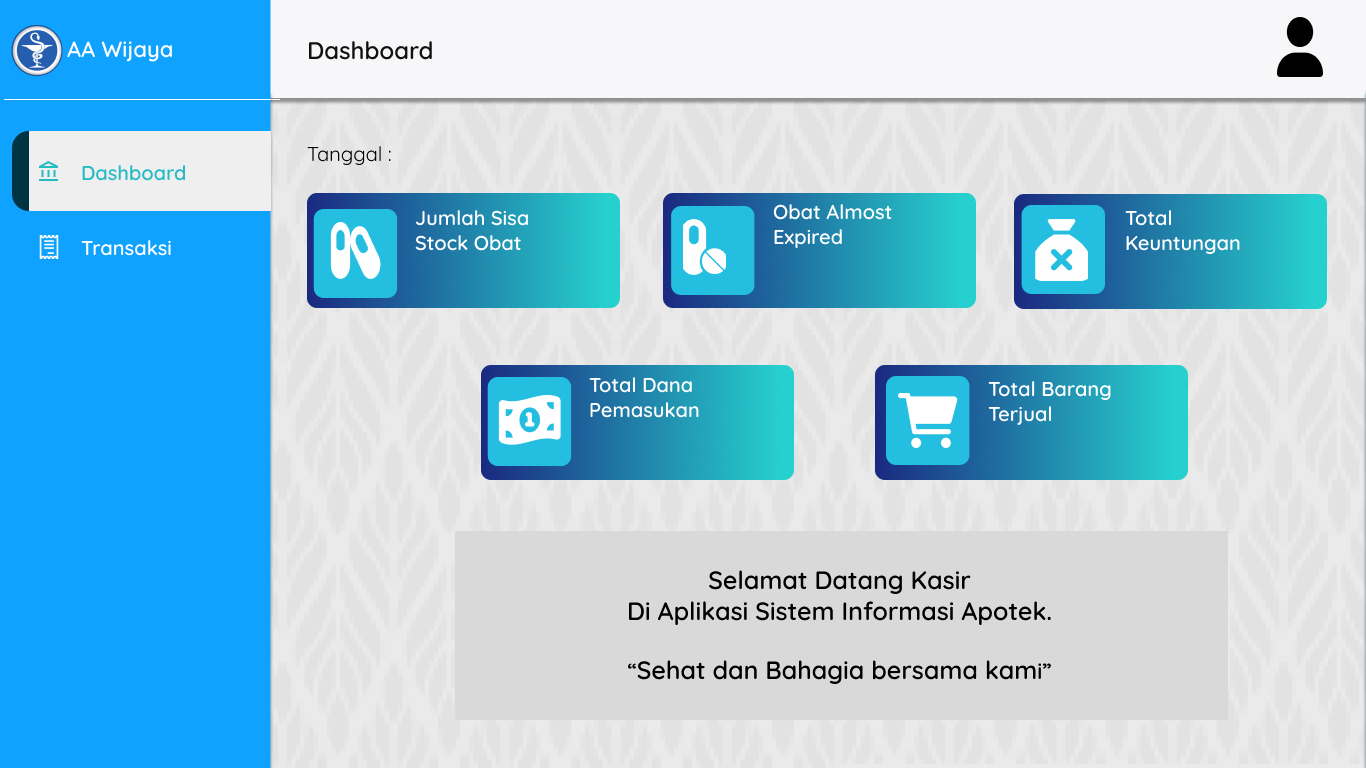
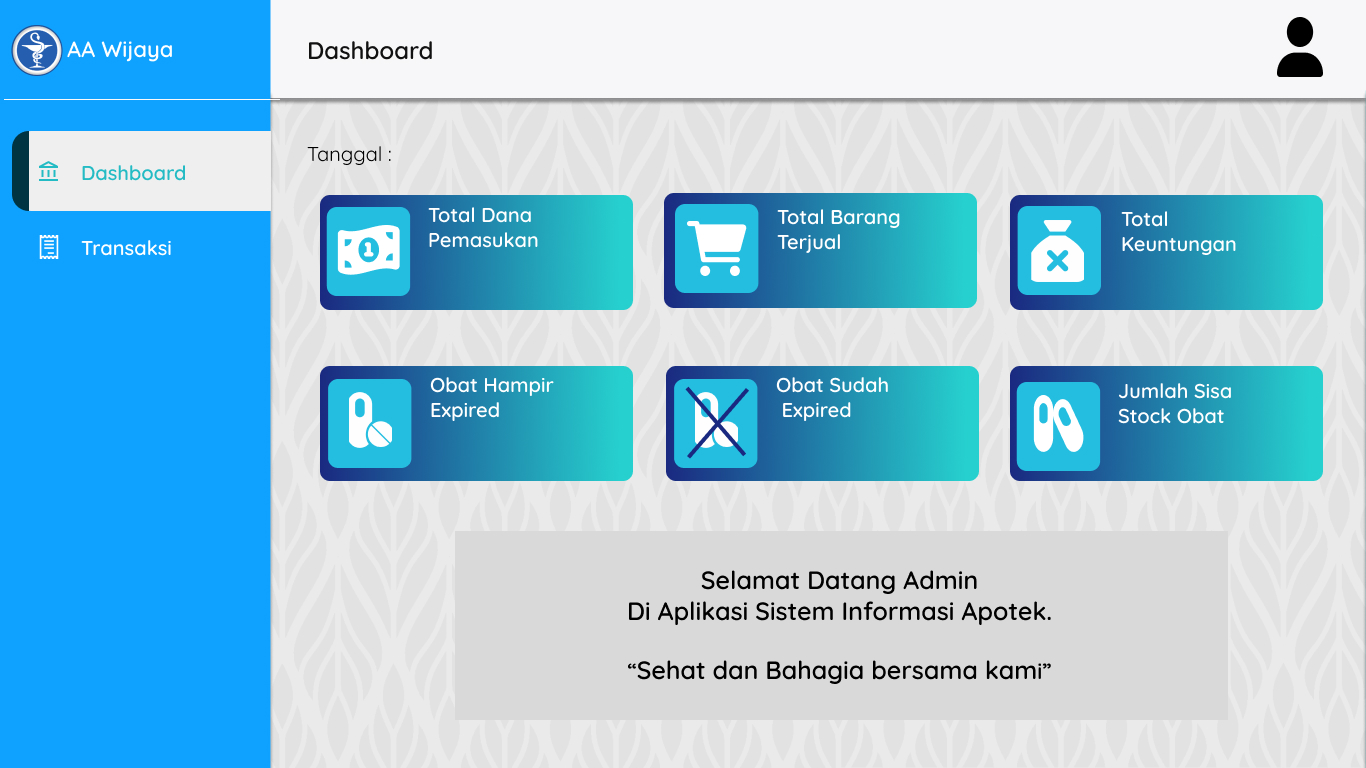
update fitur obat exp

diff --git a/src/View/obatSudahExp.java b/src/View/obatSudahExp.java
@@ -1,0 +1,87 @@
+/*
+ * Click nbfs://nbhost/SystemFileSystem/Templates/Licenses/license-default.txt to change this license
+ * Click nbfs://nbhost/SystemFileSystem/Templates/GUIForms/JFrame.java to edit this template
+ */
+package View;
+
+/**
+ *
+ * @author WINDOWS 10
+ */
+public class obatSudahExp extends javax.swing.JFrame {
+
+    /**
+     * Creates new form obatSudahExp
+     */
+    public obatSudahExp() {
+        initComponents();
+    }
+
+    /**
+     * This method is called from within the constructor to initialize the form.
+     * WARNING: Do NOT modify this code. The content of this method is always
+     * regenerated by the Form Editor.
+     */
+    @SuppressWarnings("unchecked")
+    // <editor-fold defaultstate="collapsed" desc="Generated Code">//GEN-BEGIN:initComponents
+    private void initComponents() {
+
+        jLabel2 = new javax.swing.JLabel();
+        jLabel1 = new javax.swing.JLabel();
+
+        setDefaultCloseOperation(javax.swing.WindowConstants.EXIT_ON_CLOSE);
+        getContentPane().setLayout(null);
+
+        jLabel2.setFont(new java.awt.Font("Segoe UI", 0, 18)); // NOI18N
+        jLabel2.setText("jLabel2");
+        getContentPane().add(jLabel2);
+        jLabel2.setBounds(440, 130, 240, 40);
+
+        jLabel1.setIcon(new javax.swing.ImageIcon(getClass().getResource("/image/laporan obat sudah exp.jpg"))); // NOI18N
+        jLabel1.setText("jLabel1");
+        getContentPane().add(jLabel1);
+        jLabel1.setBounds(0, 0, 1407, 768);
+
+        setBounds(0, 0, 1382, 886);
+    }// </editor-fold>//GEN-END:initComponents
+
+    /**
+     * @param args the command line arguments
+     */
+    public static void main(String args[]) {
+        /* Set the Nimbus look and feel */
+        //<editor-fold defaultstate="collapsed" desc=" Look and feel setting code (optional) ">
+        /* If Nimbus (introduced in Java SE 6) is not available, stay with the default look and feel.
+         * For details see http://download.oracle.com/javase/tutorial/uiswing/lookandfeel/plaf.html 
+         */
+        try {
+            for (javax.swing.UIManager.LookAndFeelInfo info : javax.swing.UIManager.getInstalledLookAndFeels()) {
+                if ("Nimbus".equals(info.getName())) {
+                    javax.swing.UIManager.setLookAndFeel(info.getClassName());
+                    break;
+                }
+            }
+        } catch (ClassNotFoundException ex) {
+            java.util.logging.Logger.getLogger(obatSudahExp.class.getName()).log(java.util.logging.Level.SEVERE, null, ex);
+        } catch (InstantiationException ex) {
+            java.util.logging.Logger.getLogger(obatSudahExp.class.getName()).log(java.util.logging.Level.SEVERE, null, ex);
+        } catch (IllegalAccessException ex) {
+            java.util.logging.Logger.getLogger(obatSudahExp.class.getName()).log(java.util.logging.Level.SEVERE, null, ex);
+        } catch (javax.swing.UnsupportedLookAndFeelException ex) {
+            java.util.logging.Logger.getLogger(obatSudahExp.class.getName()).log(java.util.logging.Level.SEVERE, null, ex);
+        }
+        //</editor-fold>
+
+        /* Create and display the form */
+        java.awt.EventQueue.invokeLater(new Runnable() {
+            public void run() {
+                new obatSudahExp().setVisible(true);
+            }
+        });
+    }
+
+    // Variables declaration - do not modify//GEN-BEGIN:variables
+    private javax.swing.JLabel jLabel1;
+    private javax.swing.JLabel jLabel2;
+    // End of variables declaration//GEN-END:variables
+}

diff --git a/src/View/DashboardKasir.java b/src/View/DashboardKasir.java
@@ -132,7 +132,7 @@ public class DashboardKasir extends javax.swing.JFrame {
         getContentPane().add(lblBarangTerjual);
         lblBarangTerjual.setBounds(530, 570, 150, 40);
 
-        jLabel1.setIcon(new javax.swing.ImageIcon(getClass().getResource("/image/dashboard Kasir.jpg"))); // NOI18N
+        jLabel1.setIcon(new javax.swing.ImageIcon(getClass().getResource("/image/dashboard kasir.jpg"))); // NOI18N
         jLabel1.setText("jLabel1");
         getContentPane().add(jLabel1);
         jLabel1.setBounds(0, 0, 1360, 770);

diff --git a/src/View/GantiPass.java b/src/View/GantiPass.java
@@ -60,7 +60,7 @@ public class GantiPass extends javax.swing.JFrame {
         getContentPane().add(jLabel2);
         jLabel2.setBounds(680, 520, 620, 60);
 
-        jLabel1.setIcon(new javax.swing.ImageIcon(getClass().getResource("/image/Konfirmasi Pass-2.jpg"))); // NOI18N
+        jLabel1.setIcon(new javax.swing.ImageIcon(getClass().getResource("/image/Konfirmasi Pass-1.jpg"))); // NOI18N
         jLabel1.setText("jLabel1");
         getContentPane().add(jLabel1);
         jLabel1.setBounds(0, 0, 1370, 770);
